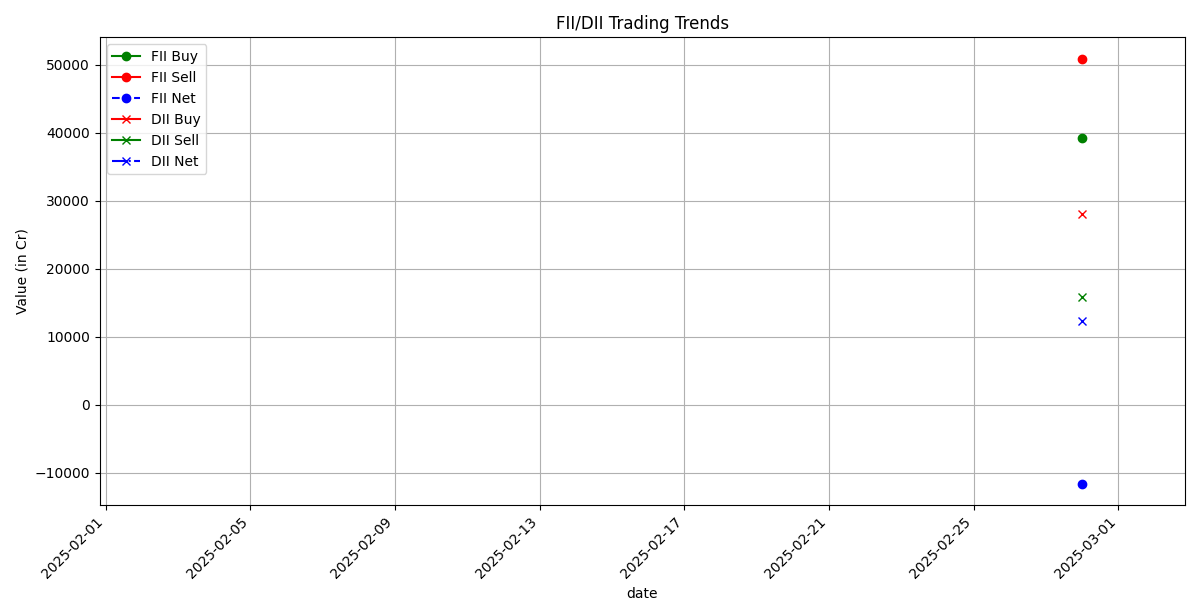
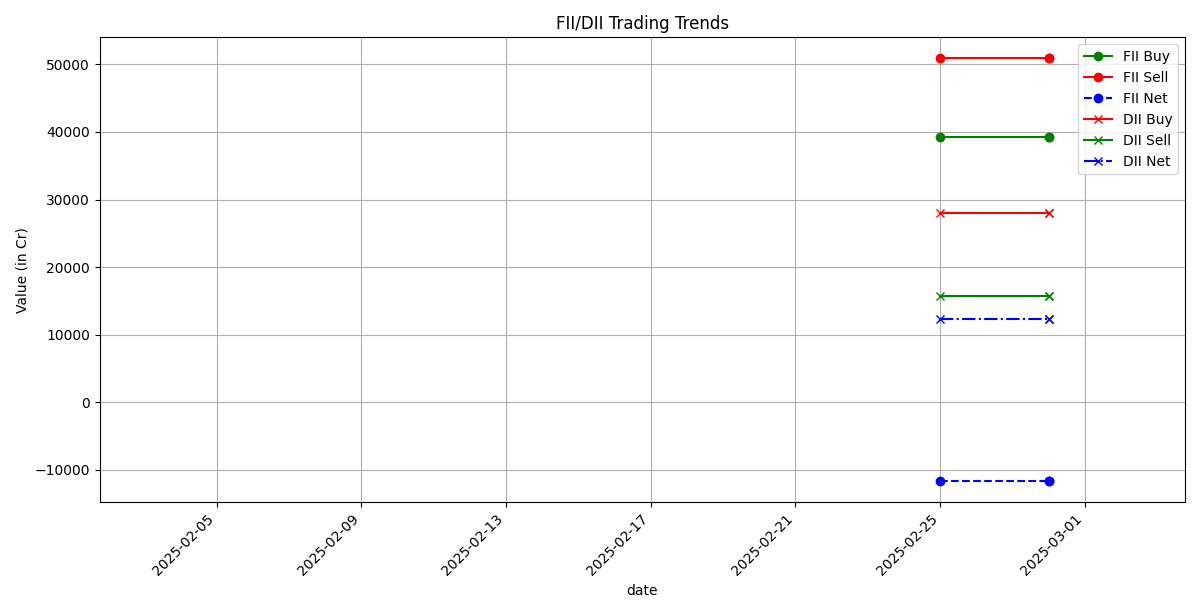
3r march run completed

diff --git a/fii_dii_report.py b/fii_dii_report.py
@@ -24,10 +24,11 @@ def save_data_to_csv(data, filename="./data/fii_dii_buy_sell_data.csv"):
     if data:
         try:
             df = pd.DataFrame(data)
-            df.to_csv(filename, index=False)
+            # df.to_csv(filename, index=False)
             if os.path.exists(filename):
                 existing_df = pd.read_csv(filename)
                 df = pd.concat([existing_df, df], ignore_index=True)
+            df.drop_duplicates(subset=['date', 'category'], keep='last', inplace=True)
             df.to_csv(filename, index=False)
             print(f"Data saved to {filename}")
         except IOError as e:
@@ -57,8 +58,7 @@ def create_visualization(df, filename="fii_dii_trends.png"):
     if df is not None:
         try:
             # Convert 'date' column to datetime objects
-            df['date'] = pd.to_datetime(df['date'], format='%d-%b-%Y')
-            df.drop_duplicates(subset=['date', 'category'], keep='last', inplace=True)
+            df['date'] = pd.to_datetime(df['date'],format='mixed', dayfirst=True)
             # Calculate the start date for the filter (7 days ago)
             today = datetime.today()
             start_date = today - timedelta(days=30)
